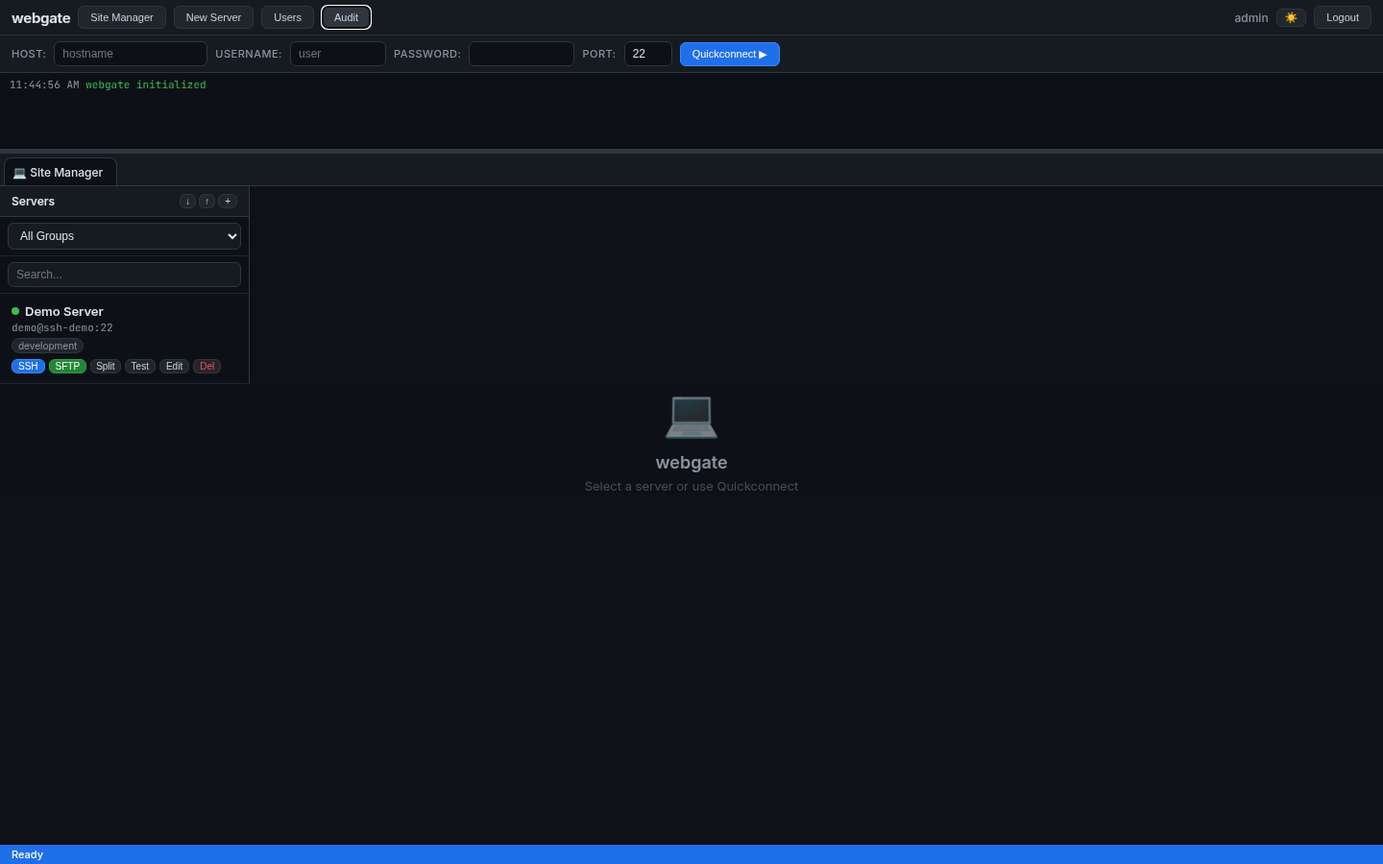
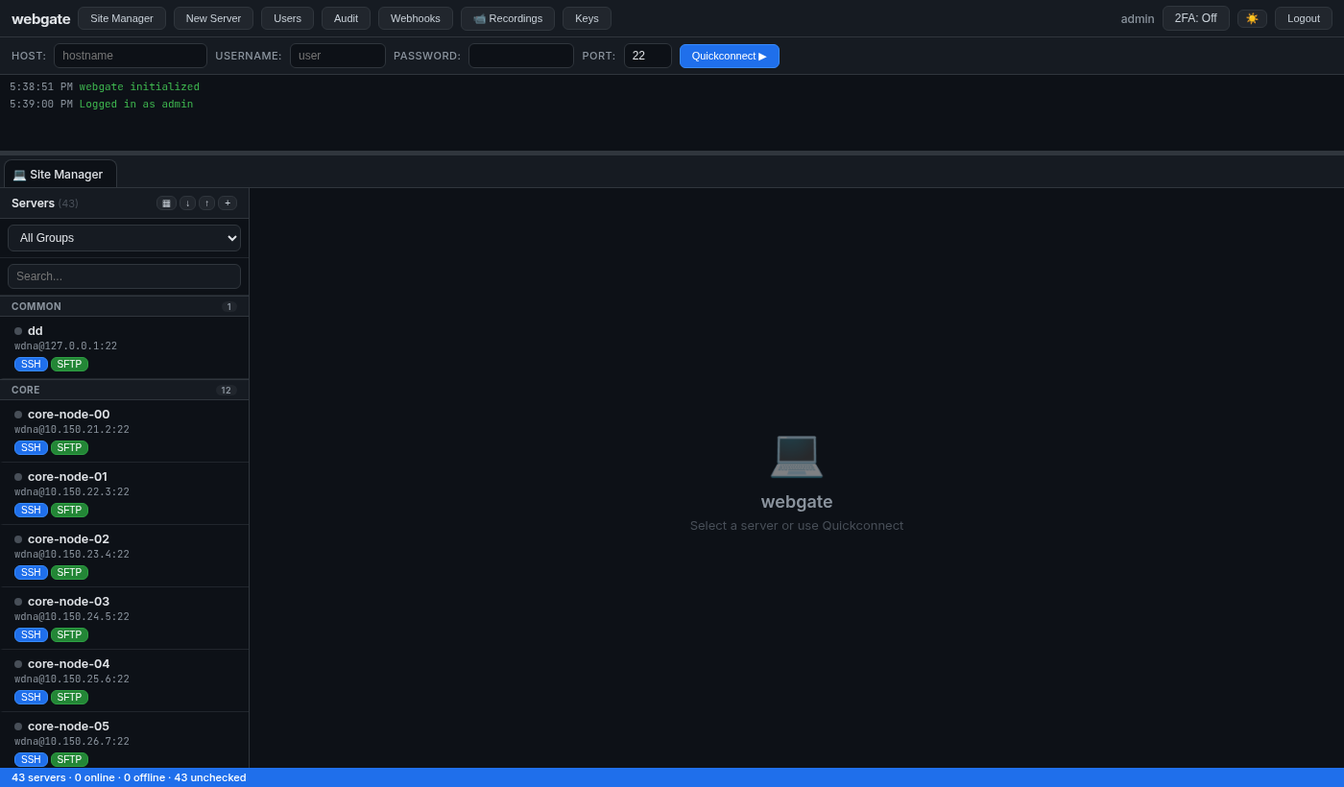
Hotfix v0.5.3: Site Manager dashboard overflow + compact redesign
Fixes the bug report that the left-hand server list hid servers behind
the blue status bar once you had enough of them registered. Alpine's
x-show was stripping the dashboard row's inline display:flex, collapsing
the flex chain so the inner .fz-serverlist never clipped. A .fz-flex-row
class (mirror of the existing .fz-flex-col) survives the x-show toggle,
and the sidebar column now carries the min-height:0 / overflow:hidden
chain down to the scrollable list.

While there, the server list was redesigned for fleets of dozens: SSH
and SFTP stay visible per row; Split/Test/Edit/Del move to hover-reveal;
sticky per-group headers with counts when "All Groups" is active;
compact/comfortable density toggle persisted in localStorage; status
bar now shows dashboard context (N servers · X online · Y offline,
plus the active filter) instead of leaking the file-browser tab state.

Also commits src/webgate/auth/models.py, which had drifted out of HEAD
since the 2FA / API-keys features shipped - auth/routes.py and
auth/service.py import ApiKey and touch User.totp_* but models.py at
HEAD did not define them, so a fresh clone would not start. Docker Hub
and fly.io builds kept working because those are built from the dirty
working tree. Drift is resolved.

Stale test_health (hardcoded the pre-HA {"status": "ok"} shape) is
updated to accept the current instance_id + monitor_role payload.

diff --git a/src/webgate/static/index.html b/src/webgate/static/index.html
@@ -103,14 +103,29 @@
         .fz-editor-bar { background: var(--bg-secondary); border-bottom: 1px solid var(--border); padding: 6px 12px; display: flex; align-items: center; justify-content: space-between; }
 
         /* Server list in sidebar */
-        .fz-serverlist { overflow-y: auto; flex: 1; }
-        .fz-srv-item { padding: 10px 12px; border-bottom: 1px solid var(--btn-bg); cursor: pointer; transition: background 0.15s; }
+        .fz-sidebar { display: flex; flex-direction: column; min-height: 0; overflow: hidden; flex-shrink: 0; }
+        .fz-serverlist { overflow-y: auto; overflow-x: hidden; flex: 1; min-height: 0; }
+        .fz-group-header { position: sticky; top: 0; z-index: 2; background: var(--bg-secondary); border-bottom: 1px solid var(--border); border-top: 1px solid var(--border); padding: 4px 12px; font-size: 10px; font-weight: 700; text-transform: uppercase; letter-spacing: 0.5px; color: var(--text-secondary); display: flex; justify-content: space-between; align-items: center; }
+        .fz-group-header .count { background: var(--btn-bg); color: var(--text-secondary); border-radius: 10px; padding: 0 6px; font-size: 9px; font-weight: 600; }
+        .fz-srv-item { padding: 7px 10px 7px 12px; border-bottom: 1px solid var(--btn-bg); cursor: pointer; transition: background 0.1s; position: relative; border-left: 3px solid transparent; }
         .fz-srv-item:hover { background: var(--bg-secondary); }
-        .fz-srv-item.active { background: #1f6feb15; border-left: 3px solid var(--accent); }
-        .fz-srv-item .srv-name { font-weight: 600; font-size: 13px; color: var(--text-primary); }
-        .fz-srv-item .srv-host { font-size: 11px; color: var(--text-secondary); font-family: 'JetBrains Mono', monospace; margin-top: 2px; }
-        .fz-srv-item .srv-group { font-size: 10px; color: var(--text-secondary); background: var(--btn-bg); border: 1px solid var(--border); padding: 1px 6px; border-radius: 10px; display: inline-block; margin-top: 4px; }
-        .fz-srv-actions { display: flex; gap: 4px; margin-top: 6px; }
+        .fz-srv-item.active { background: rgba(31,111,235,0.08); border-left-color: var(--accent); }
+        .fz-srv-item .srv-row1 { display: flex; align-items: center; gap: 6px; min-width: 0; }
+        .fz-srv-item .srv-name { font-weight: 600; font-size: 12.5px; color: var(--text-primary); flex: 1; min-width: 0; overflow: hidden; text-overflow: ellipsis; white-space: nowrap; display: flex; align-items: center; }
+        .fz-srv-item .srv-host { font-size: 10.5px; color: var(--text-secondary); font-family: 'JetBrains Mono', monospace; margin-top: 1px; overflow: hidden; text-overflow: ellipsis; white-space: nowrap; }
+        .fz-srv-item .srv-group { font-size: 9.5px; color: var(--text-secondary); background: var(--btn-bg); border: 1px solid var(--border); padding: 0 6px; border-radius: 8px; display: inline-block; flex-shrink: 0; line-height: 1.6; }
+        .fz-srv-actions { display: flex; gap: 3px; margin-top: 5px; align-items: center; }
+        .fz-srv-actions .fz-btn { font-size: 10px; padding: 1px 6px; }
+        .fz-srv-actions .fz-srv-secondary { opacity: 0; transition: opacity 0.1s; display: flex; gap: 3px; }
+        .fz-srv-item:hover .fz-srv-secondary, .fz-srv-item.active .fz-srv-secondary { opacity: 1; }
+        @media (hover: none) { .fz-srv-actions .fz-srv-secondary { opacity: 1; } }
+
+        /* Compact density mode */
+        .fz-srv-item.compact { padding: 4px 10px 4px 12px; }
+        .fz-srv-item.compact .srv-host { font-size: 10px; margin-top: 0; }
+        .fz-srv-item.compact .fz-srv-actions { margin-top: 3px; display: none; }
+        .fz-srv-item.compact:hover .fz-srv-actions, .fz-srv-item.compact.active .fz-srv-actions { display: flex; }
+        .fz-srv-item.compact .fz-srv-secondary { opacity: 1; }
 
         /* Terminal */
         .xterm { height: 100%; }
@@ -153,6 +168,8 @@
         /* Force flex display even when Alpine x-show toggles display */
         .fz-flex-col { display: flex !important; flex-direction: column; flex: 1; min-height: 0; }
         .fz-flex-col[style*="display: none"] { display: none !important; }
+        .fz-flex-row { display: flex !important; flex: 1; min-height: 0; overflow: hidden; }
+        .fz-flex-row[style*="display: none"] { display: none !important; }
 
         /* Scrollbar */
         ::-webkit-scrollbar { width: 8px; height: 8px; }
@@ -285,12 +302,13 @@ window._showToastImpl = function(message, type) {
     <div style="flex:1;display:flex;flex-direction:column;min-height:0">
 
         <!-- ======== SITE MANAGER (dashboard) ======== -->
-        <div x-show="view === 'dashboard'" style="flex:1;display:flex;min-height:0">
+        <div x-show="view === 'dashboard'" class="fz-flex-row">
             <!-- Server list sidebar -->
-            <div style="width:260px;border-right:1px solid var(--border);display:flex;flex-direction:column;background:var(--bg-tertiary);flex-shrink:0">
+            <div class="fz-sidebar" style="width:260px;border-right:1px solid var(--border);background:var(--bg-tertiary)">
                 <div class="fz-panel-header">
-                    <span>Servers</span>
-                    <div style="display:flex;gap:3px">
+                    <span>Servers <span x-show="filteredServers.length" style="font-weight:400;color:var(--text-muted);font-size:11px" x-text="'(' + filteredServers.length + ')'"></span></span>
+                    <div style="display:flex;gap:3px;align-items:center">
+                        <button @click="compactList = !compactList; localStorage.setItem('webgate_compact_list', compactList ? '1' : '0')" class="fz-btn" style="font-size:10px;padding:1px 5px" :title="compactList ? 'Switch to comfortable view' : 'Switch to compact view'" x-text="compactList ? '▤' : '▦'"></button>
                         <button x-show="currentUser?.is_admin" @click="exportServers()" class="fz-btn" style="font-size:10px;padding:1px 5px" title="Export">&#8595;</button>
                         <button x-show="currentUser?.is_admin" @click="$refs.importFile.click()" class="fz-btn" style="font-size:10px;padding:1px 5px" title="Import">&#8593;</button>
                         <input type="file" x-ref="importFile" accept=".json" style="display:none" @change="importServers($event)">
@@ -312,24 +330,39 @@ window._showToastImpl = function(message, type) {
                 </div>
                 <!-- Server list -->
                 <div class="fz-serverlist">
-                    <template x-for="srv in filteredServers" :key="srv.id">
-                        <div class="fz-srv-item" :class="selectedServerId===srv.id ? 'active' : ''" @click="selectedServerId=srv.id">
-                            <div class="srv-name" style="display:flex;align-items:center"><span :style="'display:inline-block;width:8px;height:8px;border-radius:50%;margin-right:6px;background:' + (serverStatuses[srv.id]?.online === true ? '#3fb950' : serverStatuses[srv.id]?.online === false ? '#f85149' : '#484f58')" :title="serverStatuses[srv.id]?.online === true ? 'Online' : serverStatuses[srv.id]?.online === false ? 'Offline' : 'Checking...'"></span><span x-text="srv.name"></span></div>
-                            <div class="srv-host">
-                                <span x-text="srv.username + '@' + srv.hostname + ':' + srv.port"></span>
-                                <span x-show="srv.auth_method==='key'" style="color:#3fb950;margin-left:4px" title="Key auth">&#128273;</span>
-                                <span x-show="srv.jump_via_id" style="color:#a78bfa;margin-left:4px" :title="'Via ' + (servers.find(s => s.id === srv.jump_via_id)?.name || 'jump host')">&#8634;</span>
+                    <template x-for="grp in groupedServers" :key="grp.name">
+                        <div>
+                            <div x-show="grp.showHeader" class="fz-group-header">
+                                <span x-text="grp.name || 'Ungrouped'"></span>
+                                <span class="count" x-text="grp.items.length"></span>
                             </div>
-                            <span x-show="srv.group" class="srv-group" x-text="srv.group"></span>
-                            <div class="fz-srv-actions">
-                                <button @click.stop="openServerTerminal(srv)" class="fz-btn fz-btn-success" style="font-size:10px;padding:1px 6px" :disabled="srv.ssh_enabled===false" :title="srv.ssh_enabled===false ? 'SSH disabled for this server' : ''">SSH</button>
-                                <button @click.stop="openServerFiles(srv)" class="fz-btn fz-btn-primary" style="font-size:10px;padding:1px 6px" :disabled="srv.sftp_enabled===false" :title="srv.sftp_enabled===false ? 'SFTP disabled for this server' : ''">SFTP</button>
-                                <span x-show="srv.sftp_enabled && srv.sftp_read_only" style="font-size:9px;color:#f0883e;font-weight:700" title="SFTP Read-Only">RO</span>
-                                <button @click.stop="openSplit(srv)" class="fz-btn" style="font-size:10px;padding:1px 5px" :disabled="srv.ssh_enabled===false && srv.sftp_enabled===false" title="SSH + SFTP split">Split</button>
-                                <button @click.stop="testServer(srv)" class="fz-btn" style="font-size:10px;padding:1px 6px" :disabled="testingServerId===srv.id" x-text="testingServerId===srv.id ? '...' : 'Test'"></button>
-                                <button x-show="currentUser?.is_admin" @click.stop="editServer(srv)" class="fz-btn" style="font-size:10px;padding:1px 6px">Edit</button>
-                                <button x-show="currentUser?.is_admin" @click.stop="confirmDeleteServer(srv)" class="fz-btn fz-btn-danger" style="font-size:10px;padding:1px 6px">Del</button>
-                            </div>
+                            <template x-for="srv in grp.items" :key="srv.id">
+                                <div class="fz-srv-item" :class="[selectedServerId===srv.id ? 'active' : '', compactList ? 'compact' : '']" @click="selectedServerId=srv.id">
+                                    <div class="srv-row1">
+                                        <span class="srv-name">
+                                            <span :style="'display:inline-block;width:8px;height:8px;border-radius:50%;margin-right:6px;flex-shrink:0;background:' + (serverStatuses[srv.id]?.online === true ? '#3fb950' : serverStatuses[srv.id]?.online === false ? '#f85149' : '#484f58')" :title="serverStatuses[srv.id]?.online === true ? 'Online' : serverStatuses[srv.id]?.online === false ? 'Offline' : 'Checking...'"></span>
+                                            <span x-text="srv.name" style="overflow:hidden;text-overflow:ellipsis"></span>
+                                        </span>
+                                        <span x-show="srv.group && !selectedGroup && !grp.showHeader" class="srv-group" x-text="srv.group" :title="'Group: ' + srv.group"></span>
+                                    </div>
+                                    <div class="srv-host">
+                                        <span x-text="srv.username + '@' + srv.hostname + ':' + srv.port"></span>
+                                        <span x-show="srv.auth_method==='key'" style="color:#3fb950;margin-left:4px" title="Key auth">&#128273;</span>
+                                        <span x-show="srv.jump_via_id" style="color:#a78bfa;margin-left:4px" :title="'Via ' + (servers.find(s => s.id === srv.jump_via_id)?.name || 'jump host')">&#8634;</span>
+                                        <span x-show="srv.sftp_enabled && srv.sftp_read_only" style="color:#f0883e;margin-left:4px;font-weight:700;font-size:9px" title="SFTP Read-Only">RO</span>
+                                    </div>
+                                    <div class="fz-srv-actions">
+                                        <button @click.stop="openServerTerminal(srv)" class="fz-btn fz-btn-success" :disabled="srv.ssh_enabled===false" :title="srv.ssh_enabled===false ? 'SSH disabled for this server' : 'Open SSH terminal'">SSH</button>
+                                        <button @click.stop="openServerFiles(srv)" class="fz-btn fz-btn-primary" :disabled="srv.sftp_enabled===false" :title="srv.sftp_enabled===false ? 'SFTP disabled for this server' : 'Open SFTP browser'">SFTP</button>
+                                        <div class="fz-srv-secondary">
+                                            <button @click.stop="openSplit(srv)" class="fz-btn" :disabled="srv.ssh_enabled===false && srv.sftp_enabled===false" title="SSH + SFTP split">Split</button>
+                                            <button @click.stop="testServer(srv)" class="fz-btn" :disabled="testingServerId===srv.id" :title="'Test connectivity'" x-text="testingServerId===srv.id ? '...' : 'Test'"></button>
+                                            <button x-show="currentUser?.is_admin" @click.stop="editServer(srv)" class="fz-btn" title="Edit server">Edit</button>
+                                            <button x-show="currentUser?.is_admin" @click.stop="confirmDeleteServer(srv)" class="fz-btn fz-btn-danger" title="Delete server">Del</button>
+                                        </div>
+                                    </div>
+                                </div>
+                            </template>
                         </div>
                     </template>
                     <div x-show="filteredServers.length===0" style="padding:20px;text-align:center;color:var(--text-muted);font-size:12px">
@@ -953,6 +986,7 @@ function app() {
         ssh: { host: '', port: 22, username: '', password: '' },
         servers: [], groups: [], selectedGroup: '', searchQuery: '',
         selectedServerId: null,
+        compactList: localStorage.getItem('webgate_compact_list') === '1',
         showServerModal: false, editingServerId: null, testingServerId: null,
         serverForm: { name: '', hostname: '', port: 22, username: '', auth_method: 'password', password: '', private_key: '', group: '', tagsStr: '', description: '', jump_via_id: null },
         tabs: [], activeTabId: null,
@@ -966,7 +1000,42 @@ function app() {
             if (this.selectedGroup) s = s.filter(srv => srv.group === this.selectedGroup);
             return s;
         },
+        get groupedServers() {
+            // When a specific group is selected, render a single unnamed bucket (no headers).
+            // When "All Groups" is active, bucket by group with sticky headers sorted alphabetically.
+            const items = this.filteredServers;
+            if (this.selectedGroup || items.length === 0) {
+                return [{ name: this.selectedGroup || '', items, showHeader: false }];
+            }
+            const buckets = new Map();
+            for (const s of items) {
+                const key = s.group || '';
+                if (!buckets.has(key)) buckets.set(key, []);
+                buckets.get(key).push(s);
+            }
+            const sortedKeys = [...buckets.keys()].sort((a, b) => {
+                if (a === '' && b !== '') return 1;
+                if (b === '' && a !== '') return -1;
+                return a.localeCompare(b);
+            });
+            const hasMultiple = sortedKeys.length > 1;
+            return sortedKeys.map(k => ({ name: k, items: buckets.get(k), showHeader: hasMultiple }));
+        },
         get statusLeft() {
+            if (this.view === 'dashboard') {
+                const total = this.servers.length;
+                if (total === 0) return 'Ready';
+                let online = 0, offline = 0, unknown = 0;
+                for (const s of this.servers) {
+                    const st = this.serverStatuses[s.id];
+                    if (st?.online === true) online++;
+                    else if (st?.online === false) offline++;
+                    else unknown++;
+                }
+                const shown = this.filteredServers.length;
+                const base = shown === total ? `${total} servers` : `${shown} of ${total} servers`;
+                return `${base} · ${online} online · ${offline} offline${unknown ? ' · ' + unknown + ' unchecked' : ''}`;
+            }
             const tab = this.tabs.find(t => t.id === this.activeTabId);
             if (!tab) return 'Ready';
             if (tab.type === 'terminal') return 'SSH: ' + tab.title;
@@ -978,6 +1047,11 @@ function app() {
             return '';
         },
         get statusRight() {
+            if (this.view === 'dashboard') {
+                if (this.searchQuery) return `search: "${this.searchQuery}"`;
+                if (this.selectedGroup) return `group: ${this.selectedGroup}`;
+                return '';
+            }
             const tab = this.tabs.find(t => t.id === this.activeTabId);
             if (tab?.type === 'files') return tab.currentPath || '/';
             return '';

diff --git a/src/webgate/auth/models.py b/src/webgate/auth/models.py
@@ -2,7 +2,7 @@ import json
 from datetime import datetime
 
 from pydantic import BaseModel, field_validator
-from sqlalchemy import Boolean, DateTime, String, Text, func
+from sqlalchemy import Boolean, DateTime, ForeignKey, Integer, String, Text, func
 from sqlalchemy.orm import Mapped, mapped_column
 
 from webgate.db.engine import Base
@@ -17,6 +17,20 @@ class User(Base):
     is_admin: Mapped[bool] = mapped_column(Boolean, default=False)
     must_change_password: Mapped[bool] = mapped_column(Boolean, default=False)
     allowed_groups: Mapped[str] = mapped_column(Text, default="[]")  # JSON array of group names
+    totp_secret: Mapped[str] = mapped_column(String(255), default="")
+    totp_enabled: Mapped[bool] = mapped_column(Boolean, default=False)
+    created_at: Mapped[datetime] = mapped_column(DateTime, server_default=func.now())
+
+
+class ApiKey(Base):
+    __tablename__ = "api_keys"
+
+    id: Mapped[int] = mapped_column(primary_key=True, autoincrement=True)
+    user_id: Mapped[int] = mapped_column(Integer, ForeignKey("users.id"))
+    name: Mapped[str] = mapped_column(String(255))
+    key_hash: Mapped[str] = mapped_column(String(255))
+    key_prefix: Mapped[str] = mapped_column(String(10))
+    last_used_at: Mapped[datetime | None] = mapped_column(DateTime, nullable=True)
     created_at: Mapped[datetime] = mapped_column(DateTime, server_default=func.now())
 
 
@@ -28,6 +42,7 @@ class UserCreate(BaseModel):
 class UserLogin(BaseModel):
     username: str
     password: str
+    totp_code: str = ""
 
 
 class UserOut(BaseModel):
@@ -35,6 +50,7 @@ class UserOut(BaseModel):
     username: str
     is_admin: bool
     must_change_password: bool = False
+    totp_enabled: bool = False
     allowed_groups: list[str] = []
 
     model_config = {"from_attributes": True}
@@ -65,6 +81,48 @@ class ChangePassword(BaseModel):
     new_password: str
 
 
+class TotpSetupOut(BaseModel):
+    secret: str
+    qr_uri: str
+    qr_base64: str
+
+
+class TotpVerifyIn(BaseModel):
+    code: str
+
+
+class TotpStatusOut(BaseModel):
+    enabled: bool
+
+
+class LoginOut(BaseModel):
+    access_token: str = ""
+    token_type: str = "bearer"
+    requires_2fa: bool = False
+    temp_token: str = ""
+
+
 class TokenOut(BaseModel):
     access_token: str
     token_type: str = "bearer"
+
+
+class ApiKeyCreate(BaseModel):
+    name: str
+
+
+class ApiKeyOut(BaseModel):
+    id: int
+    name: str
+    key_prefix: str
+    last_used_at: datetime | None
+    created_at: datetime
+
+    model_config = {"from_attributes": True}
+
+
+class ApiKeyCreated(BaseModel):
+    id: int
+    name: str
+    key: str
+    key_prefix: str

diff --git a/tests/test_auth.py b/tests/test_auth.py
@@ -74,4 +74,7 @@ async def test_admin_list_users(client: AsyncClient, auth_headers: dict[str, str
 async def test_health(client: AsyncClient):
     resp = await client.get("/api/health")
     assert resp.status_code == 200
-    assert resp.json() == {"status": "ok"}
+    body = resp.json()
+    assert body["status"] == "ok"
+    assert "instance_id" in body
+    assert body["monitor_role"] in {"leader", "follower"}

diff --git a/CHANGELOG.md b/CHANGELOG.md
@@ -1,5 +1,29 @@
 # Changelog
 
+## v0.5.3 (2026-04-16) — UI hotfix: server dashboard
+
+### Bug fixes
+
+- **Site Manager sidebar no longer hides servers behind the status bar.** With enough registered servers, the left-hand list expanded past the viewport because the sidebar flex column was missing `min-height:0`, so the inner `.fz-serverlist` never clipped. The last cards scrolled off-screen underneath the blue status bar. Root cause was Alpine's `x-show` stripping the inline `display:flex` from the dashboard row when it toggled visibility. Fixed by introducing a `.fz-flex-row` CSS class (mirror of the existing `.fz-flex-col`) so the flex layout survives the `x-show` toggle, plus a proper `min-height:0` / `overflow:hidden` chain all the way down to the scrollable list.
+- **Global status bar no longer leaks file-browser state onto the dashboard.** When an SFTP tab was open in the background and the user switched to Site Manager, the bottom status bar kept showing `75 items (38 directories, 37 files)` / `/home/wdna`. The dashboard view now shows its own summary: `N servers · X online · Y offline · Z unchecked` on the left and the active filter (`group: RAN` or `search: "foo"`) on the right.
+- **`auth/models.py` committed.** The `User.totp_secret` / `User.totp_enabled` columns and the `ApiKey` model had been in use by `auth/routes.py` and `auth/service.py` since the 2FA / API-keys features shipped, but `auth/models.py` had never been rolled into a commit. A fresh `git clone` of `main` failed to start with `ImportError: cannot import name 'ApiKey' from 'webgate.auth.models'`. Docker Hub and fly.io kept working because those builds happened from the dirty working tree. Committing the file resolves the drift.
+
+### Dashboard redesign (triggered by the fix above)
+
+While fixing the overflow bug, the Site Manager's server list was redesigned to scale to fleets of dozens of servers without becoming a wall of buttons.
+
+- **Compact cards with hover-reveal secondary actions.** Each server row now shows `SSH` and `SFTP` by default; `Split`, `Test`, `Edit`, and `Del` only appear when the row is hovered or selected. This drops the per-row visual weight from ~100 px with 6 visible buttons to ~55 px with 2 primary buttons, while keeping every action one hover away.
+- **Sticky group headers in the sidebar.** When the "All Groups" filter is active and the fleet spans multiple groups, the list gets per-group headers (`CORE 12`, `RAN 20`, `STAGING 4` …) that stay pinned while you scroll. Per-card group pills are automatically hidden when the header is showing, since the grouping context is already visible.
+- **Compact / comfortable density toggle** (`▦` / `▤` button in the sidebar header) persisted in `localStorage`. Compact mode hides host:port and all action buttons until hover — roughly doubles the number of servers visible per screen.
+- **Server count next to the `Servers` heading** (`Servers (43)`) updates with the current filter.
+- **Status bar filter context.** When a group filter or search is active, the right-hand status cell shows `group: <name>` or `search: "<query>"` so the current view state is always visible.
+
+### Tests
+
+- `test_health` was stale since v0.5.0 introduced HA (`instance_id` + `monitor_role` in the payload). Updated to assert the current shape instead of the original two-key response.
+
+---
+
 ## v0.5.2 (2026-04-16) — Hardening
 
 Defense-in-depth follow-ups to v0.5.1's security hotfix — no active exploit fixed here, but the attack surface is reduced.

diff --git a/docs/changelog.md b/docs/changelog.md
@@ -1,5 +1,29 @@
 # Changelog
 
+## v0.5.3 (2026-04-16) — UI hotfix: server dashboard
+
+### Bug fixes
+
+- **Site Manager sidebar no longer hides servers behind the status bar.** With enough registered servers, the left-hand list expanded past the viewport because the sidebar flex column was missing `min-height:0`, so the inner `.fz-serverlist` never clipped. The last cards scrolled off-screen underneath the blue status bar. Root cause was Alpine's `x-show` stripping the inline `display:flex` from the dashboard row when it toggled visibility. Fixed by introducing a `.fz-flex-row` CSS class (mirror of the existing `.fz-flex-col`) so the flex layout survives the `x-show` toggle, plus a proper `min-height:0` / `overflow:hidden` chain all the way down to the scrollable list.
+- **Global status bar no longer leaks file-browser state onto the dashboard.** When an SFTP tab was open in the background and the user switched to Site Manager, the bottom status bar kept showing `75 items (38 directories, 37 files)` / `/home/wdna`. The dashboard view now shows its own summary: `N servers · X online · Y offline · Z unchecked` on the left and the active filter (`group: RAN` or `search: "foo"`) on the right.
+- **`auth/models.py` committed.** The `User.totp_secret` / `User.totp_enabled` columns and the `ApiKey` model had been in use by `auth/routes.py` and `auth/service.py` since the 2FA / API-keys features shipped, but `auth/models.py` had never been rolled into a commit. A fresh `git clone` of `main` failed to start with `ImportError: cannot import name 'ApiKey' from 'webgate.auth.models'`. Docker Hub and fly.io kept working because those builds happened from the dirty working tree. Committing the file resolves the drift.
+
+### Dashboard redesign (triggered by the fix above)
+
+While fixing the overflow bug, the Site Manager's server list was redesigned to scale to fleets of dozens of servers without becoming a wall of buttons.
+
+- **Compact cards with hover-reveal secondary actions.** Each server row now shows `SSH` and `SFTP` by default; `Split`, `Test`, `Edit`, and `Del` only appear when the row is hovered or selected. This drops the per-row visual weight from ~100 px with 6 visible buttons to ~55 px with 2 primary buttons, while keeping every action one hover away.
+- **Sticky group headers in the sidebar.** When the "All Groups" filter is active and the fleet spans multiple groups, the list gets per-group headers (`CORE 12`, `RAN 20`, `STAGING 4` …) that stay pinned while you scroll. Per-card group pills are automatically hidden when the header is showing, since the grouping context is already visible.
+- **Compact / comfortable density toggle** (`▦` / `▤` button in the sidebar header) persisted in `localStorage`. Compact mode hides host:port and all action buttons until hover — roughly doubles the number of servers visible per screen.
+- **Server count next to the `Servers` heading** (`Servers (43)`) updates with the current filter.
+- **Status bar filter context.** When a group filter or search is active, the right-hand status cell shows `group: <name>` or `search: "<query>"` so the current view state is always visible.
+
+### Tests
+
+- `test_health` was stale since v0.5.0 introduced HA (`instance_id` + `monitor_role` in the payload). Updated to assert the current shape instead of the original two-key response.
+
+---
+
 ## v0.5.2 (2026-04-16) — Hardening
 
 Defense-in-depth follow-ups to v0.5.1's security hotfix — no active exploit fixed here, but the attack surface is reduced.
